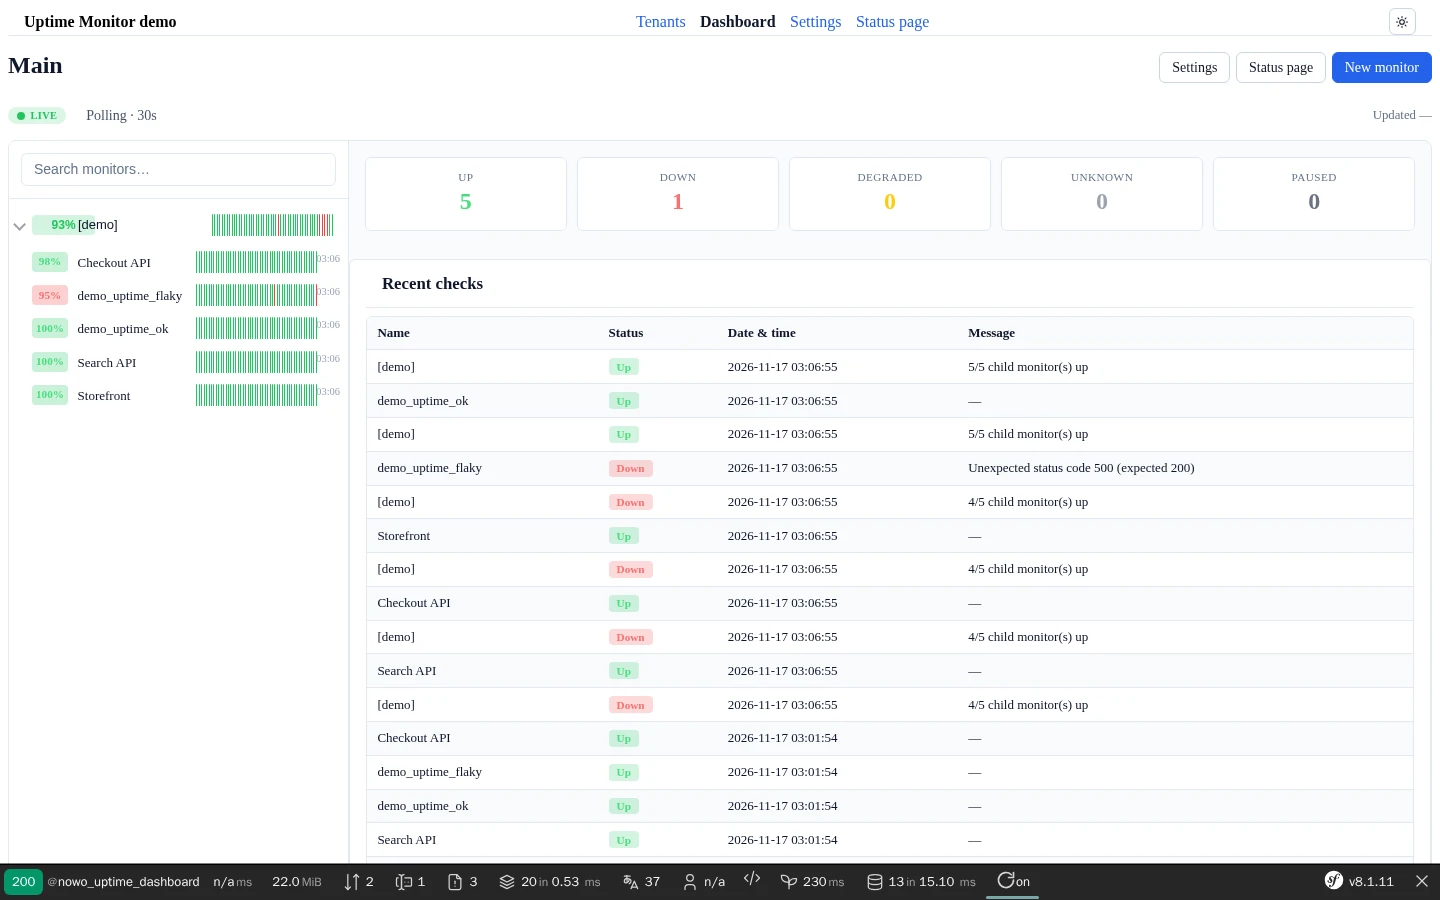
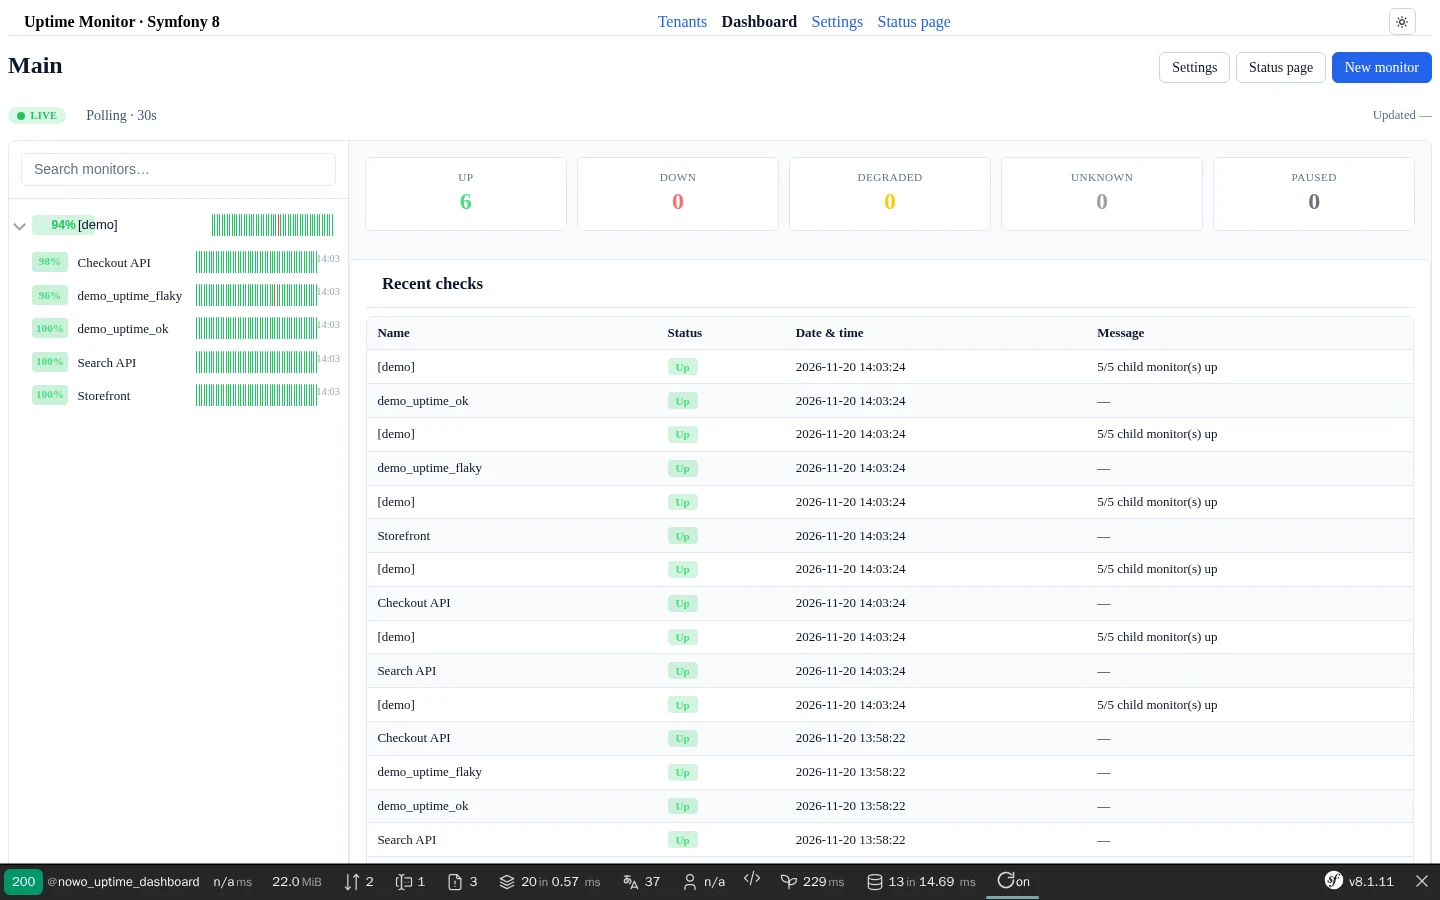
docs(demo): align demo with UiKit and FormKit

diff --git a/docs/CHANGELOG.md b/docs/CHANGELOG.md
@@ -94,6 +94,10 @@ The format is based on [Keep a Changelog](https://keepachangelog.com/en/1.0.0/).
 
 ## [Unreleased]
 
+### Changed
+
+- Demo: aligned with UiKit (`demo-nav-*` test ids on the shared `demo-masthead`, brand label as in the reference demos).
+
 ## [1.34.0] - 2026-11-20
 
 ### Added
